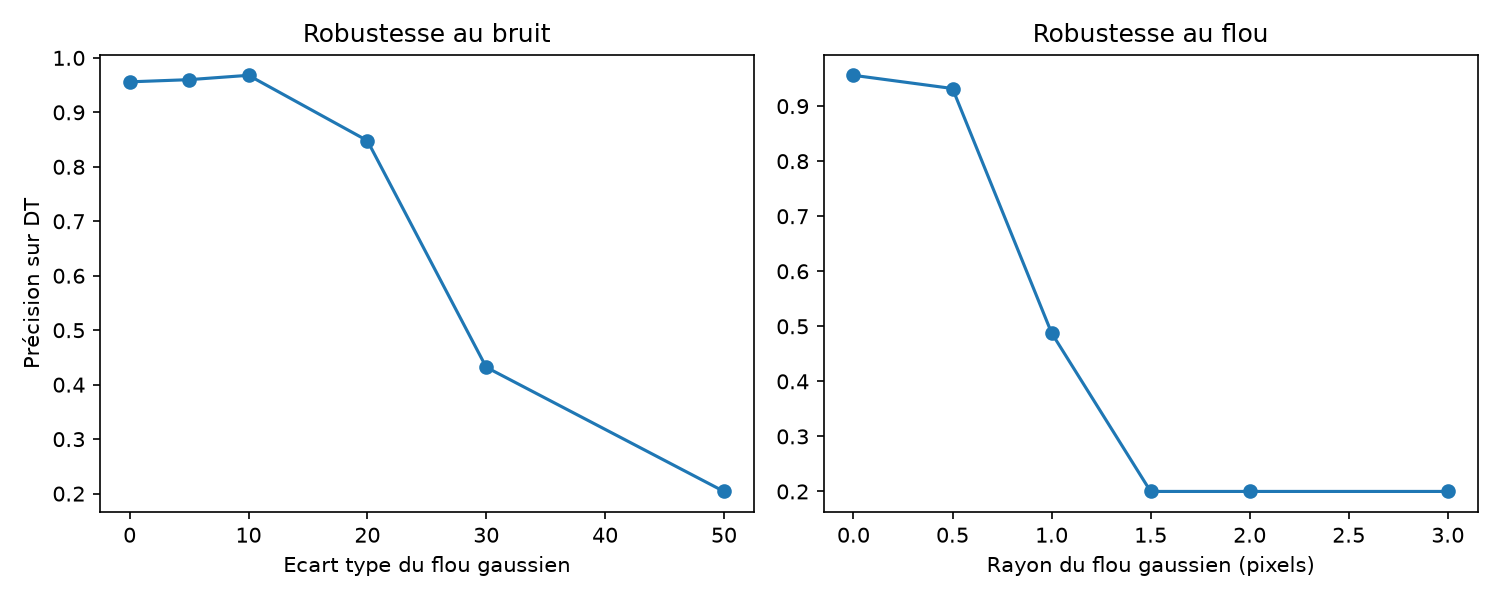
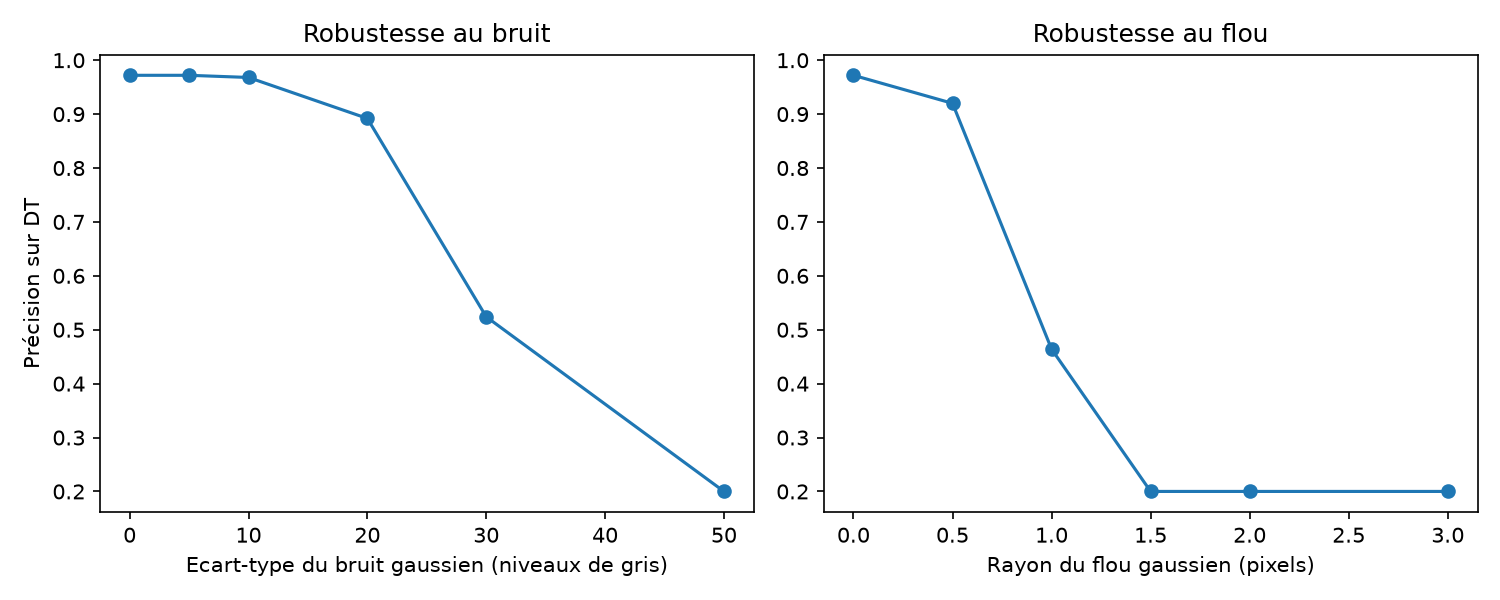
Tue Nov 24 11:19:35 AM CET 2026

diff --git a/classification.py b/classification.py
@@ -252,12 +252,11 @@ if __name__ == "__main__":
 
     classes_count = len(img_numbers)
 
+    results = []
     for patch_size in [32, 64]:
         do_patches, do_labels, _, _ = build_do_and_dt(
             img_numbers, patch_size=patch_size
         )
-
-        results = []
 
         for theta in [4, 6, 8, 10]:
             model = fit_classifier(do_patches, do_labels, classes_count, theta)

diff --git a/soutenance.md b/soutenance.md
@@ -16,8 +16,11 @@ quel patch on veut check
 le patch passé en paramètre
 
 `efros_leung`:
+- le padding de l'image est la moitié de la taille d'un patch
 - 
 
 `main`:
 - 
+
+# Classification
 
